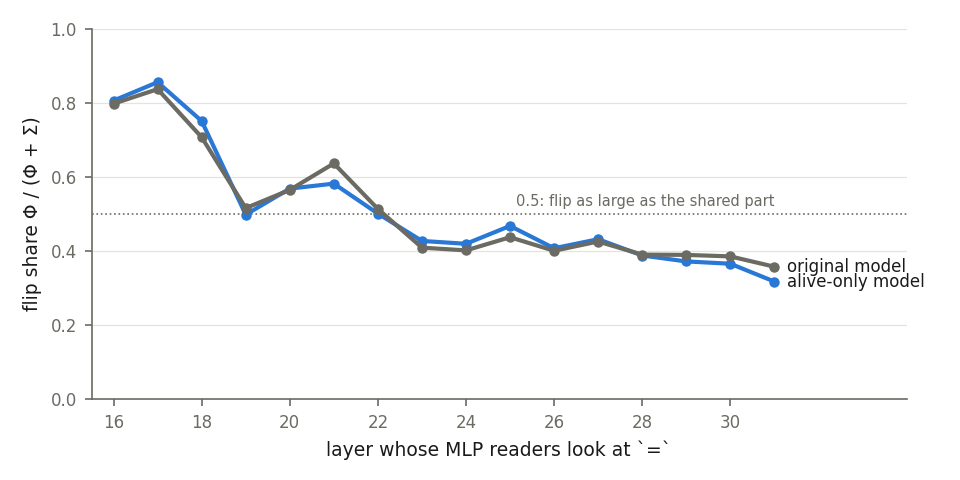
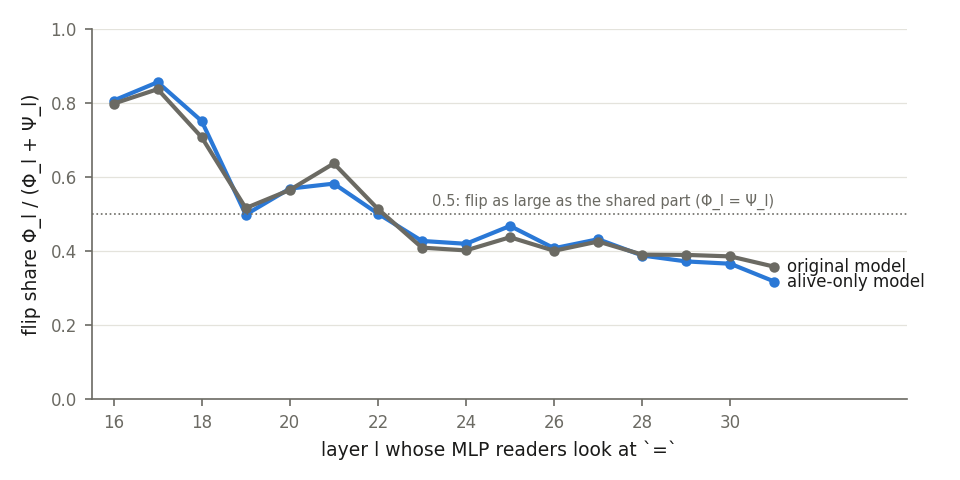
notes: flip report — define the flip measure step by step (readers' view, ramp removal, b-odd parts O_add/O_sub, energies Φ_l/Ψ_l), its spectrum over harmonics

diff --git a/param_decomp/arith_repr/vectors/flip_report_figs.py b/param_decomp/arith_repr/vectors/flip_report_figs.py
@@ -3,7 +3,7 @@
     python -m param_decomp.arith_repr.vectors.flip_report_figs   # -> OUT/flip/report_figs/*.png
 
 * pipeline.png: the components of the mechanism, layer by layer (a diagram, no data);
-* flip_share.png: flip share Phi / (Phi + Sig) per reader layer, alive-only vs original model
+* flip_share.png: flip share Phi_l / (Phi_l + Psi_l) per reader layer, alive-only vs original model
   (alive_baseline.json);
 * patching.png: share of answers that follow the partner prompt when the stream at one position and
   layer is copied from it, alive-only model, pairs with a > b (resid_comp_all.json);
@@ -56,11 +56,11 @@ def flip_share() -> None:
             va="center",
         )
     ax.axhline(0.5, color=MUTED, lw=0.8, ls=":")
-    ax.annotate("0.5: flip as large as the shared part", (31, 0.5), xytext=(0, 4), textcoords="offset points",
+    ax.annotate("0.5: flip as large as the shared part (Φ_l = Ψ_l)", (31, 0.5), xytext=(0, 4), textcoords="offset points",
                 color=MUTED, fontsize=7, ha="right")  # fmt: skip
     ax.set_xticks(range(16, 32, 2))
-    ax.set_xlabel("layer whose MLP readers look at `=`", color=INK, fontsize=9)
-    ax.set_ylabel("flip share Φ / (Φ + Σ)", color=INK, fontsize=9)
+    ax.set_xlabel("layer l whose MLP readers look at `=`", color=INK, fontsize=9)
+    ax.set_ylabel("flip share Φ_l / (Φ_l + Ψ_l)", color=INK, fontsize=9)
     ax.set_ylim(0, 1)
     ax.set_xlim(15.5, 34)
     style(ax)

diff --git a/notes/arith_representations/report_flip_mechanism.md b/notes/arith_representations/report_flip_mechanism.md
@@ -151,18 +151,49 @@ Replacing b by −b keeps the cos-axis part of b's code and reverses the sine-ax
 "subtraction sees −b" means, concretely, that b's sine-axis component has opposite signs on add and
 sub. I call this the **flip**.
 
-The flip should be measured in the view of the components that use b, not in the raw stream:
+The flip should be measured in the view of the components that use b, not in the raw stream. For
+a layer l (an integer from 16 to 31), the measure is built in five steps.
 
-1. **The readers' view.** Take the read directions of a layer's MLP gate and up components,
-   multiplied by the layer's norm gain. Stack them into a matrix G, and work with the stream's class
-   means multiplied by G.
-2. **The b-odd part.** In that view, take the part of the class means that changes sign under
-   b → −b. Call it A on add and S on sub.
-3. **Two energies:**
-   - **Φ = Σ_b |(A − S)/2|²**, the part that reverses with the operation: the flip;
-   - **Σ = Σ_b |(A + S)/2|²**, the part that is the same on both operations.
-4. **Flip share = Φ / (Φ + Σ).** It is 1 for a pure mirror and 0 when both operations see b the
-   same way.
+1. **The readers' view.** Let n_l be the number of alive gate and up components of layer l's MLP,
+   and g_l the gain vector (dimension d) of the RMSNorm in front of that MLP. Stack the read vectors
+   V_c of those n_l components as the columns of a d × n_l matrix, and multiply row i of it by the
+   i-th entry of g_l; call the result G_l. For each value v of b and each operation o, take the class
+   mean ȳ_o(v) of the stream entering layer l's MLP at `=` (defined above, already centred over v)
+   and form the vector r_o(v) = ȳ_o(v)ᵀ G_l, of dimension n_l. Its c-th entry is the average inner
+   activation of reader c over the 100 prompts with b = v and operation o, except that the stream is
+   not divided by its rms.
+2. **Remove the straight-line trend.** For each operation o and each reader c, fit the 100 values
+   r_o(v)[c] with a line s_o[c] · (v − 50.5) by least squares (s_o[c] is a real slope) and subtract
+   it; call the result r̃_o(v). A straight line in v is not periodic, so it has no clean "value at
+   −v" and is set aside. This removes a sizeable signal: at the layer-16 readers, the op-dependent
+   part of that line, Σ_v ‖(s_add − s_sub)/2 · (v − 50.5)‖², is 63.9, as large as the flip energy
+   below (62.1). Whether this linear code of b is reversed on subtraction is not measured here.
+3. **The b-odd part.** Define −v as 100 − v (so −v ≡ −v mod 100; v = 50 and v = 100 map to
+   themselves). The b-odd part on each operation is
+   - O_add(v) = [r̃_add(v) − r̃_add(−v)] / 2 on addition,
+   - O_sub(v) = [r̃_sub(v) − r̃_sub(−v)] / 2 on subtraction,
+   
+   both vectors of dimension n_l. In Fourier terms, O_o keeps the sine-axis part of b's code at
+   every harmonic k from 1 to 49, and drops the cos-axis part and harmonic 50. No harmonic is
+   selected in advance.
+4. **Two energies.** With ‖·‖ the Euclidean norm over the n_l readers and both sums over
+   v = 1, …, 100:
+   - **Φ_l = Σ_v ‖(O_add(v) − O_sub(v)) / 2‖²**, the part that reverses with the operation: the
+     flip;
+   - **Ψ_l = Σ_v ‖(O_add(v) + O_sub(v)) / 2‖²**, the part that is the same on both operations.
+
+   Φ_l + Ψ_l = (Σ_v ‖O_add(v)‖² + Σ_v ‖O_sub(v)‖²) / 2: the two split the b-odd energy of the two
+   operations between them.
+5. **Flip share = Φ_l / (Φ_l + Ψ_l).** It is 1 for a pure mirror (O_sub = −O_add) and 0 when both
+   operations see b the same way (O_sub = O_add).
+
+Where a section says "Φ" without a layer, it means Φ_16, the flip at the layer-16 readers.
+
+How Φ_16 splits over the harmonics (share of Φ_16 summed over the k with each period T): T = 5,
+0.37; T = 50, 0.25; T = 100, 0.24; T = 10, 0.09; T = 25, 0.03; T = 20, 0.02; T = 4 and T = 2,
+under 0.01. The four periods used in the rest of this post (5, 10, 50, 100) carry 0.95 of Φ_16, and
+0.97 of Φ_17 and Φ_18. The harmonic k = 5 (period 20) has flip share 0.50 at layer 16, 0.40 at 17
+and 0.19 at 18, below the 0.79–0.95 of the four main harmonics (k = 20, 2, 1, 10).
 
 Before the layer-15 MLP there is no flip. It appears between the input of the layer-15 MLP and the
 input of the layer-16 MLP, and is cleanest at the readers of layers 16 to 18 (Figure 2):
@@ -174,9 +205,9 @@ input of the layer-16 MLP, and is cleanest at the readers of layers 16 to 18 (Fi
 
 ![Figure 2](figures_flip/flip_share.png)
 
-*Figure 2. Flip share Φ / (Φ + Σ) at each layer's MLP readers, at the `=` token. Blue: alive-only
+*Figure 2. Flip share Φ_l / (Φ_l + Ψ_l) at each layer l's MLP readers, at the `=` token. Blue: alive-only
 model. Grey: original model. The dotted line marks 0.5, where the flip is as large as the part that
-is the same on both operations.*
+is the same on both operations (Φ_l = Ψ_l).*
 
 ## 3. The mechanism, step by step
 
